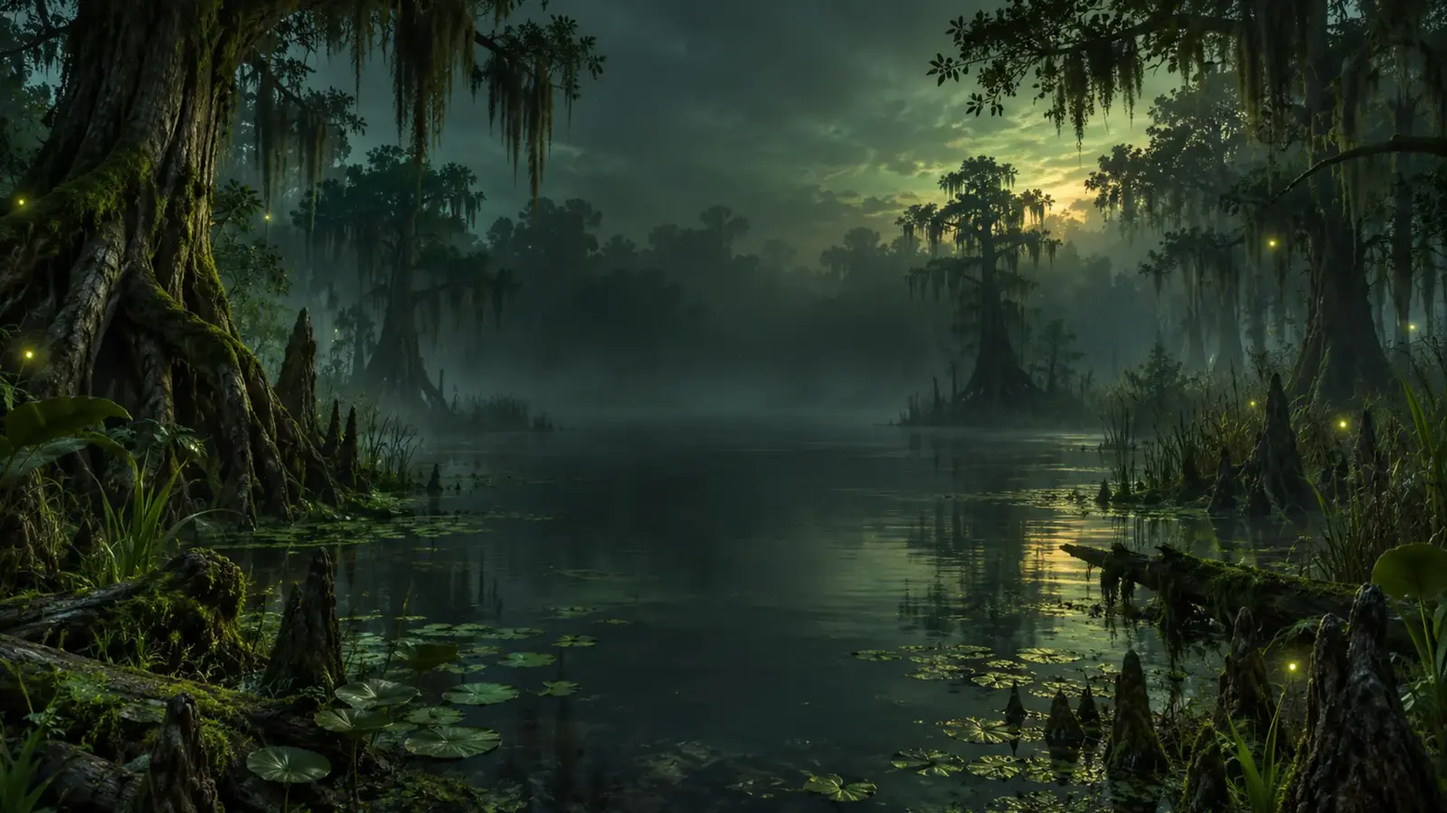
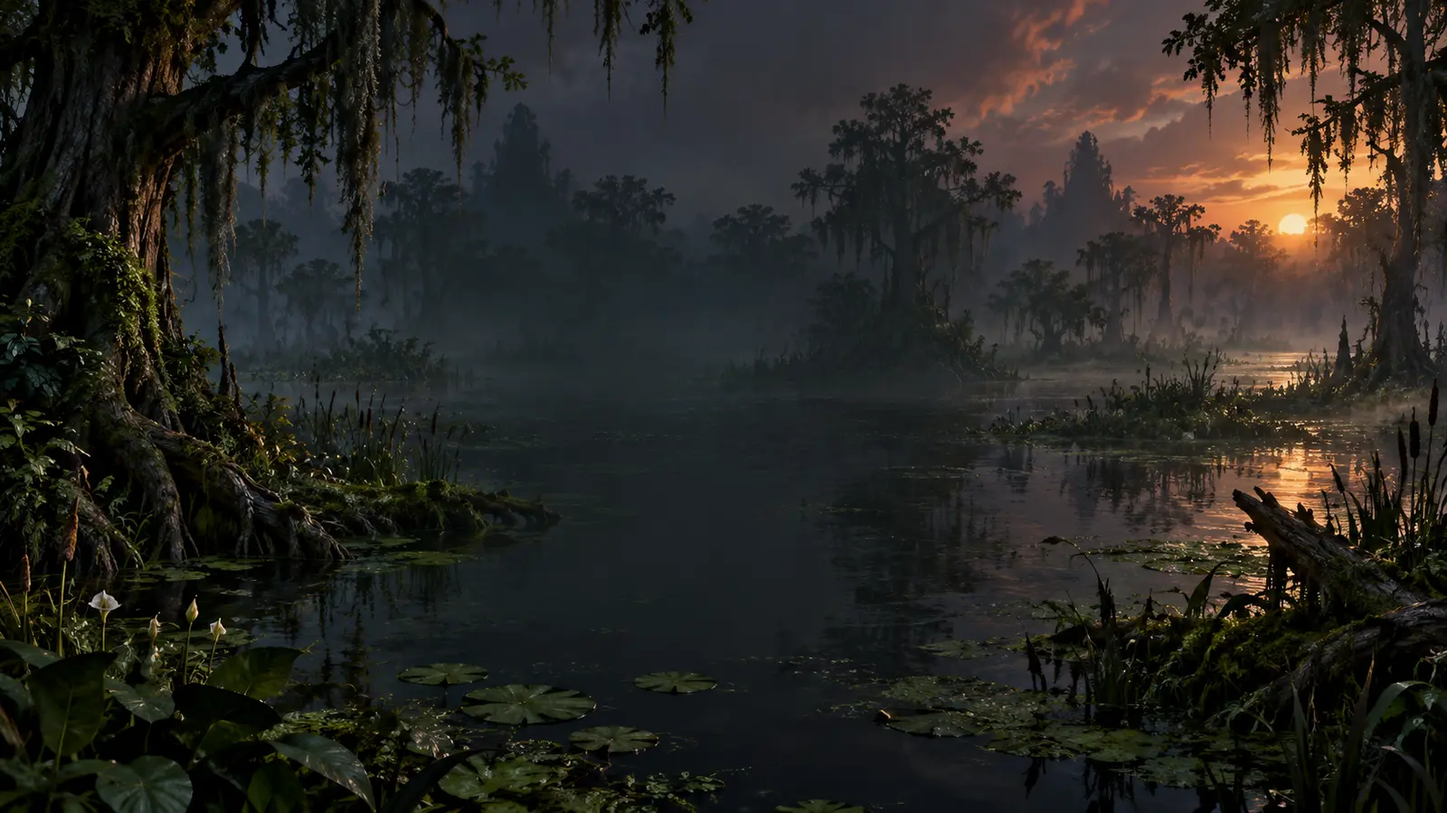
Give every biome a unique background

diff --git a/index.html b/index.html
@@ -1,1 +1,1 @@
-<!doctype html><html lang="en"><head><meta charset="utf-8"><meta name="viewport" content="width=device-width,initial-scale=1"><meta name="description" content="Complex Cobblemon shiny hunting reference with Pokémon spawns, biomes, variants, Poké Snack and Poké Bait recipes."><title>Complex Cobblemon Shiny Hunting</title><link rel="stylesheet" href="styles.css"><style>.hero{isolation:isolate;min-height:330px;padding:10px 18px 18px;overflow:visible}.logo-image-wrap{width:min(1320px,92vw);position:relative;z-index:6;margin:auto}.logo-image{display:block;width:100%;height:auto;max-height:315px;object-fit:contain;filter:drop-shadow(0 8px 14px rgba(0,0,0,.28));-webkit-mask-image:none;mask-image:none;transform:none}.logo-image-wrap .tag{display:none}@media(max-width:900px){.hero{min-height:245px;padding:8px 10px 12px}.logo-image-wrap{width:min(100%,1000px)}.logo-image{max-height:235px}}@media(max-width:600px){.hero{min-height:175px;padding:6px 4px 10px}.logo-image-wrap{width:100%}.logo-image{max-height:165px}}</style></head><body><div class="topbar"><div class="nav"><button class="active" data-nav="home">⌂ <span>Home</span></button><button data-nav="pokemon">◉ <span>Pokémon</span></button><button data-nav="biomes">♟ <span>Biomes</span></button><button data-nav="builder">☷ <span>Recipe Builder</span></button><button data-nav="items">▣ <span>Items</span></button><button data-nav="guide">✦ <span>Shiny Guide</span></button><button data-nav="about">ⓘ <span>About</span></button><button data-nav="wiki">📚 <span>Official Wiki</span></button></div></div><div class="hero"><div id="ambient"></div><div class="logo-image-wrap"><img class="logo-image" src="assets/complex-cobblemon-logo-transparent.png" alt="Complex Cobblemon Shiny Hunting"><div class="tag">Pokédex order • biome hunting • forms & variants • Poké Snack / Poké Bait recipes</div></div></div><main><section id="homePage"><div class="searchShell"><div class="searchRow"><span>⌕</span><input id="search" placeholder="Search Pokémon... (by name or #)" autocomplete="off"><button id="random">Random</button></div><div class="filters"><select id="biomeFilter"><option value="">All Biomes</option></select><select id="typeFilter"><option value="">All Types</option></select><select id="rarityFilter"><option value="">All Rarities</option><option>common</option><option>uncommon</option><option>rare</option><option>ultra-rare</option></select><select id="eggFilter"><option value="">All Egg Groups</option></select><select id="formFilter"><option value="">All Forms</option><option value="variants">Variants Available</option></select><button class="clear" id="clearFilters">Clear</button></div></div><div class="layout"><aside class="panel biomes" id="biomePanel"><div class="pTitle">🍃 Biomes</div><button class="biomeBtn active" data-biome=""><span>🌐 All Biomes</span><em id="allBiomeCount">0</em></button><div id="biomeList"></div></aside><section class="dexCol" id="pokemonArea"><div class="dexHead"><div id="status">Loading Pokémon…</div><div class="tools"><span>Sort:</span><select id="sortMode"><option value="dex">Pokédex Number</option><option value="name">Name</option><option value="rarity">Rarity</option></select><button class="view active" id="gridView" title="Grid view">▦</button><button class="view" id="compactView" title="Compact view">☷</button></div></div><div class="grid" id="pokemonGrid"></div><div class="pages" id="pagination"></div></section><aside class="right"><div class="panel"><div class="pTitle">🍲 Recipe Builder</div><div class="mode"><button class="active" id="quickSnack">Poké Snacks</button><button id="quickBait">Poké Bait</button></div><div id="quickSlots" class="qslots"></div><div class="qrow"><button id="quickClear">Clear All</button><button class="go" id="quickShow">Show Results →</button></div></div><div class="panel"><div class="pTitle">⭐ Selected Pokémon</div><div id="selectedHome" class="selEmpty">No Pokémon selected<br><small>Click a Pokémon to view details, spawns, and recipe suggestions.</small></div></div><div class="panel quick"><div class="pTitle">✦ Quick Actions</div><button id="findRecipe">✨ Find Shiny Recipes</button><button id="viewSpawns">♟ View Spawn Locations</button><button id="checklistBtn">☑ Add to Checklist</button></div><div class="panel"><div class="pTitle">🍃 Seasoning Reference <button id="viewAllSeasonings" style="border:0;background:transparent;color:var(--aqua)">View All →</button></div><div class="seasonGrid" id="seasoningPreview"></div></div></aside></div></section><section id="builderPage" class="page hidden"><div class="builder"><div class="box sticky"><h2>🧪 Interactive Recipe Builder</h2><label>Pokémon</label><select id="pokeSelect"></select><br><br><label>Recipe Goal</label><select id="goalSelect"><option value="balanced">⭐ Shiny + Rarity + Target</option><option value="maxshiny">✨ Maximum Shiny + Target</option><option value="target">🎯 Maximum Target Attraction</option><option value="rarity">👑 Maximum Rarity</option><option value="fast">⚡ Faster Spawns / Bites</option><option value="level">⬆ Higher Lured Level</option><option value="custom">🛠 Custom</option></select><br><br><label>Make This As</label><select id="itemMode"><option value="snack">Poké Snack</option><option value="bait">Poké Bait</option></select><div id="selectedInfo" class="box" style="margin-top:12px">Select a Pokémon.</div><div id="targetOptions" class="box"></div><h3>Seasoning Slots</h3><div id="slots" class="slotGrid"></div><div style="display:flex;gap:8px;margin-top:10px"><button class="clear" id="applyGoal">Apply Goal</button><button class="clear" id="clearSlots">Clear Slots</button></div></div><div><div class="box"><h2>📋 Recipe</h2><div id="recipeOutput"></div></div><div class="box"><h2>📊 Combined Effects</h2><div id="effects" class="effectGrid"></div></div><div class="box"><h2>💡 Best Target Ingredients</h2><div id="bestIngredients"></div></div></div></div></section><section id="itemsPage" class="page hidden"><div class="box"><h2>🍓 Seasoning Reference</h2><p class="muted">Use the search and effect filter to find shiny, rarity, targeting, speed, level, and special seasonings.</p><div style="display:grid;grid-template-columns:2fr 1fr;gap:8px;margin-bottom:10px"><input id="seasoningSearch" placeholder="Search seasoning or effect…"><select id="seasoningFilter"><option value="">All Effects</option><option value="shiny">Shiny</option><option value="rarity">Rarity</option><option value="target">Type / Egg Group</option><option value="bite">Spawn / Bite Speed</option><option value="level">Lured Level</option><option value="special">Other</option></select></div><div class="tableWrap"><table><thead><tr><th>Seasoning</th><th>Effect</th><th>Category</th><th></th></tr></thead><tbody id="seasoningTable"></tbody></table></div></div></section><section id="guidePage" class="page hidden"><div class="box"><h2>✨ Shiny Hunting Guide</h2><p>Use filters to narrow the Pokédex by biome, type, rarity, egg group, or forms. Results stay paginated so changing filters does not force the browser to load hundreds of Pokémon images at once.</p><p><b>Balanced:</b> Starf Berry + Golden Carrot + a matching type/egg-group seasoning.</p><p><b>Maximum shiny:</b> Enchanted Golden Apple + Starf Berry + a target seasoning. Enchanted Golden Apples are powerful but expensive, so Starf Berries remain the practical renewable option.</p><p><b>Targeting:</b> Type and egg-group seasonings increase the matching spawn weight and can be stacked.</p><p class="muted">Complex can customize spawn rules and rates server-side. Treat this as a hunting reference and verify unusual server-specific behavior in game.</p></div></section><section id="aboutPage" class="page hidden"><div class="box"><h2>ℹ About & Disclaimer</h2><p>This free reference is focused on the essentials: searchable spawn data, biome hunting, forms/variants, encounter details, checklist support, and Poké Snack / Poké Bait planning.</p><p>The site reads <code>data/spawn-data.js</code>, which is refreshed automatically from public Cobblemon/PokéAPI sources. Mechanics and reference articles are retrieved live from the official Cobblemon Wiki. Complex Cobblemon may have custom server-side spawns, rarities, disabled species, or private datapacks that public data cannot see.</p></div></section><section id="wikiPage" class="page hidden"><div class="box wikiHero"><div><h2>📚 Official Cobblemon Wiki</h2><p>Search the current official Cobblemon Wiki for mechanics, items, berries, crafting, spawning rules, blocks, commands, and guides. Wiki information describes base Cobblemon; Complex may customize server-side behavior.</p></div><a class="wikiExternal" href="https://wiki.cobblemon.com/" target="_blank" rel="noopener">Open Full Wiki ↗</a></div><div class="box"><div class="wikiSearch"><input id="wikiSearch" placeholder="Search the official Cobblemon Wiki…" autocomplete="off"><button id="wikiSearchBtn">Search</button></div><div class="wikiQuick" id="wikiQuick"><button data-wiki="Berry">Berries</button><button data-wiki="Pokémon/Spawning">Spawning</button><button data-wiki="Poké Ball">Poké Balls</button><button data-wiki="Pasture Block">Pasture Block</button><button data-wiki="Brewing">Brewing</button><button data-wiki="Commands">Commands</button></div><div id="wikiStatus" class="muted">Choose a topic or search the official wiki.</div><div class="wikiLayout"><div id="wikiResults" class="wikiResults"></div><article id="wikiArticle" class="wikiArticle"><div class="emptyState">Select a wiki result to read its summary here.</div></article></div></div></section></main><div id="modal" class="modal hidden"><div class="modalbox"><div class="modalhead"><h2 id="modalTitle">Pokémon</h2><button id="modalClose">✕</button></div><div id="modalBody"></div></div></div><footer class="footer"><div>Complex Cobblemon Shiny Hunting Tool</div><div>Free Community Reference</div><div id="footerStatus">Waiting for data…</div></footer><script src="data/spawn-data.js"></script><script src="app.js" defer></script><script src="catch-balls.js" defer></script></body></html>
+<!doctype html><html lang="en"><head><meta charset="utf-8"><meta name="viewport" content="width=device-width,initial-scale=1"><meta name="description" content="Complex Cobblemon shiny hunting reference with Pokémon spawns, biomes, variants, Poké Snack and Poké Bait recipes."><title>Complex Cobblemon Shiny Hunting</title><link rel="stylesheet" href="styles.css"><style>.hero{isolation:isolate;min-height:330px;padding:10px 18px 18px;overflow:visible}.logo-image-wrap{width:min(1320px,92vw);position:relative;z-index:6;margin:auto}.logo-image{display:block;width:100%;height:auto;max-height:315px;object-fit:contain;filter:drop-shadow(0 8px 14px rgba(0,0,0,.28));-webkit-mask-image:none;mask-image:none;transform:none}.logo-image-wrap .tag{display:none}@media(max-width:900px){.hero{min-height:245px;padding:8px 10px 12px}.logo-image-wrap{width:min(100%,1000px)}.logo-image{max-height:235px}}@media(max-width:600px){.hero{min-height:175px;padding:6px 4px 10px}.logo-image-wrap{width:100%}.logo-image{max-height:165px}}</style></head><body><div class="topbar"><div class="nav"><button class="active" data-nav="home">⌂ <span>Home</span></button><button data-nav="pokemon">◉ <span>Pokémon</span></button><button data-nav="biomes">♟ <span>Biomes</span></button><button data-nav="builder">☷ <span>Recipe Builder</span></button><button data-nav="items">▣ <span>Items</span></button><button data-nav="guide">✦ <span>Shiny Guide</span></button><button data-nav="about">ⓘ <span>About</span></button><button data-nav="wiki">📚 <span>Official Wiki</span></button></div></div><div class="hero"><div id="ambient"></div><div class="logo-image-wrap"><img class="logo-image" src="assets/complex-cobblemon-logo-transparent.png" alt="Complex Cobblemon Shiny Hunting"><div class="tag">Pokédex order • biome hunting • forms & variants • Poké Snack / Poké Bait recipes</div></div></div><main><section id="homePage"><div class="searchShell"><div class="searchRow"><span>⌕</span><input id="search" placeholder="Search Pokémon... (by name or #)" autocomplete="off"><button id="random">Random</button></div><div class="filters"><select id="biomeFilter"><option value="">All Biomes</option></select><select id="typeFilter"><option value="">All Types</option></select><select id="rarityFilter"><option value="">All Rarities</option><option>common</option><option>uncommon</option><option>rare</option><option>ultra-rare</option></select><select id="eggFilter"><option value="">All Egg Groups</option></select><select id="formFilter"><option value="">All Forms</option><option value="variants">Variants Available</option></select><button class="clear" id="clearFilters">Clear</button></div></div><div class="layout"><aside class="panel biomes" id="biomePanel"><div class="pTitle">🍃 Biomes</div><button class="biomeBtn active" data-biome=""><span>🌐 All Biomes</span><em id="allBiomeCount">0</em></button><div id="biomeList"></div></aside><section class="dexCol" id="pokemonArea"><div class="dexHead"><div id="status">Loading Pokémon…</div><div class="tools"><span>Sort:</span><select id="sortMode"><option value="dex">Pokédex Number</option><option value="name">Name</option><option value="rarity">Rarity</option></select><button class="view active" id="gridView" title="Grid view">▦</button><button class="view" id="compactView" title="Compact view">☷</button></div></div><div class="grid" id="pokemonGrid"></div><div class="pages" id="pagination"></div></section><aside class="right"><div class="panel"><div class="pTitle">🍲 Recipe Builder</div><div class="mode"><button class="active" id="quickSnack">Poké Snacks</button><button id="quickBait">Poké Bait</button></div><div id="quickSlots" class="qslots"></div><div class="qrow"><button id="quickClear">Clear All</button><button class="go" id="quickShow">Show Results →</button></div></div><div class="panel"><div class="pTitle">⭐ Selected Pokémon</div><div id="selectedHome" class="selEmpty">No Pokémon selected<br><small>Click a Pokémon to view details, spawns, and recipe suggestions.</small></div></div><div class="panel quick"><div class="pTitle">✦ Quick Actions</div><button id="findRecipe">✨ Find Shiny Recipes</button><button id="viewSpawns">♟ View Spawn Locations</button><button id="checklistBtn">☑ Add to Checklist</button></div><div class="panel"><div class="pTitle">🍃 Seasoning Reference <button id="viewAllSeasonings" style="border:0;background:transparent;color:var(--aqua)">View All →</button></div><div class="seasonGrid" id="seasoningPreview"></div></div></aside></div></section><section id="builderPage" class="page hidden"><div class="builder"><div class="box sticky"><h2>🧪 Interactive Recipe Builder</h2><label>Pokémon</label><select id="pokeSelect"></select><br><br><label>Recipe Goal</label><select id="goalSelect"><option value="balanced">⭐ Shiny + Rarity + Target</option><option value="maxshiny">✨ Maximum Shiny + Target</option><option value="target">🎯 Maximum Target Attraction</option><option value="rarity">👑 Maximum Rarity</option><option value="fast">⚡ Faster Spawns / Bites</option><option value="level">⬆ Higher Lured Level</option><option value="custom">🛠 Custom</option></select><br><br><label>Make This As</label><select id="itemMode"><option value="snack">Poké Snack</option><option value="bait">Poké Bait</option></select><div id="selectedInfo" class="box" style="margin-top:12px">Select a Pokémon.</div><div id="targetOptions" class="box"></div><h3>Seasoning Slots</h3><div id="slots" class="slotGrid"></div><div style="display:flex;gap:8px;margin-top:10px"><button class="clear" id="applyGoal">Apply Goal</button><button class="clear" id="clearSlots">Clear Slots</button></div></div><div><div class="box"><h2>📋 Recipe</h2><div id="recipeOutput"></div></div><div class="box"><h2>📊 Combined Effects</h2><div id="effects" class="effectGrid"></div></div><div class="box"><h2>💡 Best Target Ingredients</h2><div id="bestIngredients"></div></div></div></div></section><section id="itemsPage" class="page hidden"><div class="box"><h2>🍓 Seasoning Reference</h2><p class="muted">Use the search and effect filter to find shiny, rarity, targeting, speed, level, and special seasonings.</p><div style="display:grid;grid-template-columns:2fr 1fr;gap:8px;margin-bottom:10px"><input id="seasoningSearch" placeholder="Search seasoning or effect…"><select id="seasoningFilter"><option value="">All Effects</option><option value="shiny">Shiny</option><option value="rarity">Rarity</option><option value="target">Type / Egg Group</option><option value="bite">Spawn / Bite Speed</option><option value="level">Lured Level</option><option value="special">Other</option></select></div><div class="tableWrap"><table><thead><tr><th>Seasoning</th><th>Effect</th><th>Category</th><th></th></tr></thead><tbody id="seasoningTable"></tbody></table></div></div></section><section id="guidePage" class="page hidden"><div class="box"><h2>✨ Shiny Hunting Guide</h2><p>Use filters to narrow the Pokédex by biome, type, rarity, egg group, or forms. Results stay paginated so changing filters does not force the browser to load hundreds of Pokémon images at once.</p><p><b>Balanced:</b> Starf Berry + Golden Carrot + a matching type/egg-group seasoning.</p><p><b>Maximum shiny:</b> Enchanted Golden Apple + Starf Berry + a target seasoning. Enchanted Golden Apples are powerful but expensive, so Starf Berries remain the practical renewable option.</p><p><b>Targeting:</b> Type and egg-group seasonings increase the matching spawn weight and can be stacked.</p><p class="muted">Complex can customize spawn rules and rates server-side. Treat this as a hunting reference and verify unusual server-specific behavior in game.</p></div></section><section id="aboutPage" class="page hidden"><div class="box"><h2>ℹ About & Disclaimer</h2><p>This free reference is focused on the essentials: searchable spawn data, biome hunting, forms/variants, encounter details, checklist support, and Poké Snack / Poké Bait planning.</p><p>The site reads <code>data/spawn-data.js</code>, which is refreshed automatically from public Cobblemon/PokéAPI sources. Mechanics and reference articles are retrieved live from the official Cobblemon Wiki. Complex Cobblemon may have custom server-side spawns, rarities, disabled species, or private datapacks that public data cannot see.</p></div></section><section id="wikiPage" class="page hidden"><div class="box wikiHero"><div><h2>📚 Official Cobblemon Wiki</h2><p>Search the current official Cobblemon Wiki for mechanics, items, berries, crafting, spawning rules, blocks, commands, and guides. Wiki information describes base Cobblemon; Complex may customize server-side behavior.</p></div><a class="wikiExternal" href="https://wiki.cobblemon.com/" target="_blank" rel="noopener">Open Full Wiki ↗</a></div><div class="box"><div class="wikiSearch"><input id="wikiSearch" placeholder="Search the official Cobblemon Wiki…" autocomplete="off"><button id="wikiSearchBtn">Search</button></div><div class="wikiQuick" id="wikiQuick"><button data-wiki="Berry">Berries</button><button data-wiki="Pokémon/Spawning">Spawning</button><button data-wiki="Poké Ball">Poké Balls</button><button data-wiki="Pasture Block">Pasture Block</button><button data-wiki="Brewing">Brewing</button><button data-wiki="Commands">Commands</button></div><div id="wikiStatus" class="muted">Choose a topic or search the official wiki.</div><div class="wikiLayout"><div id="wikiResults" class="wikiResults"></div><article id="wikiArticle" class="wikiArticle"><div class="emptyState">Select a wiki result to read its summary here.</div></article></div></div></section></main><div id="modal" class="modal hidden"><div class="modalbox"><div class="modalhead"><h2 id="modalTitle">Pokémon</h2><button id="modalClose">✕</button></div><div id="modalBody"></div></div></div><footer class="footer"><div>Complex Cobblemon Shiny Hunting Tool</div><div>Free Community Reference</div><div id="footerStatus">Waiting for data…</div></footer><script src="data/spawn-data.js"></script><script src="data/biome-backgrounds.js"></script><script src="app.js" defer></script><script src="catch-balls.js" defer></script></body></html>

diff --git a/data/biome-backgrounds.js b/data/biome-backgrounds.js
@@ -1,0 +1,1 @@
+window.COBBLEMON_BIOME_BACKGROUNDS={"arid":"assets/biomes/arid.webp","badlands":"assets/biomes/badlands.webp","bamboo":"assets/biomes/bamboo.webp","beach":"assets/biomes/beach.webp","biomesoplenty:crystalline_chasm":"assets/biomes/biomesoplenty-crystalline-chasm.webp","byg:warped_desert":"assets/biomes/byg-warped-desert.webp","cherry_blossom":"assets/biomes/cherry-blossom.webp","coast":"assets/biomes/coast.webp","cobblemon:is_floral":"assets/biomes/cobblemon-is-floral.webp","cold":"assets/biomes/cold.webp","cold_ocean":"assets/biomes/cold-ocean.webp","deep_dark":"assets/biomes/deep-dark.webp","deep_ocean":"assets/biomes/deep-ocean.webp","desert":"assets/biomes/desert.webp","dripstone":"assets/biomes/dripstone.webp","end":"assets/biomes/end.webp","floral":"assets/biomes/floral.webp","forest":"assets/biomes/forest.webp","freezing":"assets/biomes/freezing.webp","freshwater":"assets/biomes/freshwater.webp","frozen_ocean":"assets/biomes/frozen-ocean.webp","frozen_river":"assets/biomes/frozen-river.webp","glacial":"assets/biomes/glacial.webp","grassland":"assets/biomes/grassland.webp","has_block-mud":"assets/biomes/has-block-mud.webp","highlands":"assets/biomes/highlands.webp","hills":"assets/biomes/hills.webp","island":"assets/biomes/island.webp","jagged_peaks":"assets/biomes/jagged-peaks.webp","jungle":"assets/biomes/jungle.webp","lukewarm_ocean":"assets/biomes/lukewarm-ocean.webp","lush":"assets/biomes/lush.webp","magical":"assets/biomes/magical.webp","mountain":"assets/biomes/mountain.webp","mushroom":"assets/biomes/mushroom.webp","mushroom_fields":"assets/biomes/mushroom-fields.webp","nether-basalt":"assets/biomes/nether-basalt.webp","nether-crimson":"assets/biomes/nether-crimson.webp","nether-desert":"assets/biomes/nether-desert.webp","nether-forest":"assets/biomes/nether-forest.webp","nether-frozen":"assets/biomes/nether-frozen.webp","nether-fungus":"assets/biomes/nether-fungus.webp","nether-mountain":"assets/biomes/nether-mountain.webp","nether-overgrowth":"assets/biomes/nether-overgrowth.webp","nether-quartz":"assets/biomes/nether-quartz.webp","nether-soul_fire":"assets/biomes/nether-soul-fire.webp","nether-soul_sand":"assets/biomes/nether-soul-sand.webp","nether-toxic":"assets/biomes/nether-toxic.webp","nether-warped":"assets/biomes/nether-warped.webp","nether-wasteland":"assets/biomes/nether-wasteland.webp","ocean":"assets/biomes/ocean.webp","overworld":"assets/biomes/overworld.webp","peak":"assets/biomes/peak.webp","plains":"assets/biomes/plains.webp","plateau":"assets/biomes/plateau.webp","river":"assets/biomes/river.webp","sandy":"assets/biomes/sandy.webp","savanna":"assets/biomes/savanna.webp","shrubland":"assets/biomes/shrubland.webp","sky":"assets/biomes/sky.webp","snowy":"assets/biomes/snowy.webp","snowy_beach":"assets/biomes/snowy-beach.webp","snowy_forest":"assets/biomes/snowy-forest.webp","snowy_taiga":"assets/biomes/snowy-taiga.webp","spooky":"assets/biomes/spooky.webp","sunflower_plains":"assets/biomes/sunflower-plains.webp","swamp":"assets/biomes/swamp.webp","taiga":"assets/biomes/taiga.webp","temperate":"assets/biomes/temperate.webp","thermal":"assets/biomes/thermal.webp","tropical_island":"assets/biomes/tropical-island.webp","tundra":"assets/biomes/tundra.webp","vanilla-nether":"assets/biomes/vanilla-nether.webp","volcanic":"assets/biomes/volcanic.webp","warm_ocean":"assets/biomes/warm-ocean.webp"};

diff --git a/app.js b/app.js
@@ -15,23 +15,10 @@ function targetBaits(x){const out=[];(x?.types||[]).forEach(t=>{if(TYPE_BAIT[t])
 function preset(g,x){const t=targetBaits(x)[0]?.bait||'';if(g==='balanced')return['Starf Berry','Golden Carrot',t||'Starf Berry'];if(g==='maxshiny')return['Enchanted Golden Apple','Starf Berry',t||'Starf Berry'];if(g==='target')return[t||'Starf Berry',t||'Starf Berry',t||'Starf Berry'];if(g==='rarity')return['Enchanted Golden Apple','Golden Carrot','Golden Carrot'];if(g==='fast')return['Apple','Apple','Sitrus Berry'];if(g==='level')return['Hopo Berry','Hopo Berry','Hopo Berry'];return slots}
 function totals(a){let shiny=1,rarity=0,bite=0,level=0,ability=0;a.filter(Boolean).forEach(n=>{const e=SEASONINGS[n]||{};if(e.shiny)shiny+=e.shiny-1;rarity+=e.rarity||0;bite+=e.bite||0;level+=e.level||0;ability+=e.ability||0});return{shiny,rarity,bite:Math.min(100,bite),level,ability:Math.min(100,ability)}}
 function show(p){['home','builder','items','guide','about','wiki'].forEach(x=>$(x+'Page').classList.toggle('hidden',x!==p));window.scrollTo({top:0,behavior:'smooth'})}function icon(b){return/forest/i.test(b)?'🌲':/ocean/i.test(b)?'🌊':/river/i.test(b)?'💧':/mountain|hill/i.test(b)?'⛰':/desert|badland/i.test(b)?'🏜':/floral|flower|cherry/i.test(b)?'🌸':/nether/i.test(b)?'🔥':/end|magical/i.test(b)?'🔮':'◆'}
-let backgroundRequest=0,backgroundTimer=null;
-function biomeBackground(b){
-  const value=String(b||'').toLowerCase();
-  if(!value)return'';
-  if(/nether/.test(value))return'nether';
-  if(/(^|[:_ -])end($|[:_ -])/.test(value))return'end';
-  if(/freez|snow|ice|icy|frozen|cold|tundra/.test(value))return'cold';
-  if(/ocean|river|beach|coast|island|aquatic|water|lake/.test(value))return'water';
-  if(/desert|badland|arid|mesa/.test(value))return'arid';
-  if(/swamp|mangrove|marsh|spooky/.test(value))return'swamp';
-  if(/cave|dripstone|deep.?dark|underground|lush/.test(value))return'cave';
-  if(/floral|flower|cherry|meadow/.test(value))return'floral';
-  if(/forest|jungle|wood|grove|taiga/.test(value))return'forest';
-  return'plains';
-}
+const BIOME_BACKGROUNDS=Object.freeze(window.COBBLEMON_BIOME_BACKGROUNDS||{});let backgroundRequest=0,backgroundTimer=null;
+function biomeBackground(b){return BIOME_BACKGROUNDS[String(b||'')]||''}
 function updateBiomeBackground(b){
-  const category=biomeBackground(b),url=category?`assets/biomes/${category}.webp`:'assets/background.jpg',request=++backgroundRequest,img=new Image();
+  const background=biomeBackground(b),url=background||'assets/background.jpg',request=++backgroundRequest,img=new Image();
   img.onload=()=>{
     if(request!==backgroundRequest)return;
     clearTimeout(backgroundTimer);
@@ -39,7 +26,7 @@ function updateBiomeBackground(b){
     backgroundTimer=setTimeout(()=>{
       if(request!==backgroundRequest)return;
       document.body.style.setProperty('--page-background',`url("${url}")`);
-      document.body.dataset.biomeBackground=category||'default';
+      document.body.dataset.biomeBackground=b||'default';
       requestAnimationFrame(()=>document.body.classList.remove('biome-bg-changing'));
     },220);
   };
